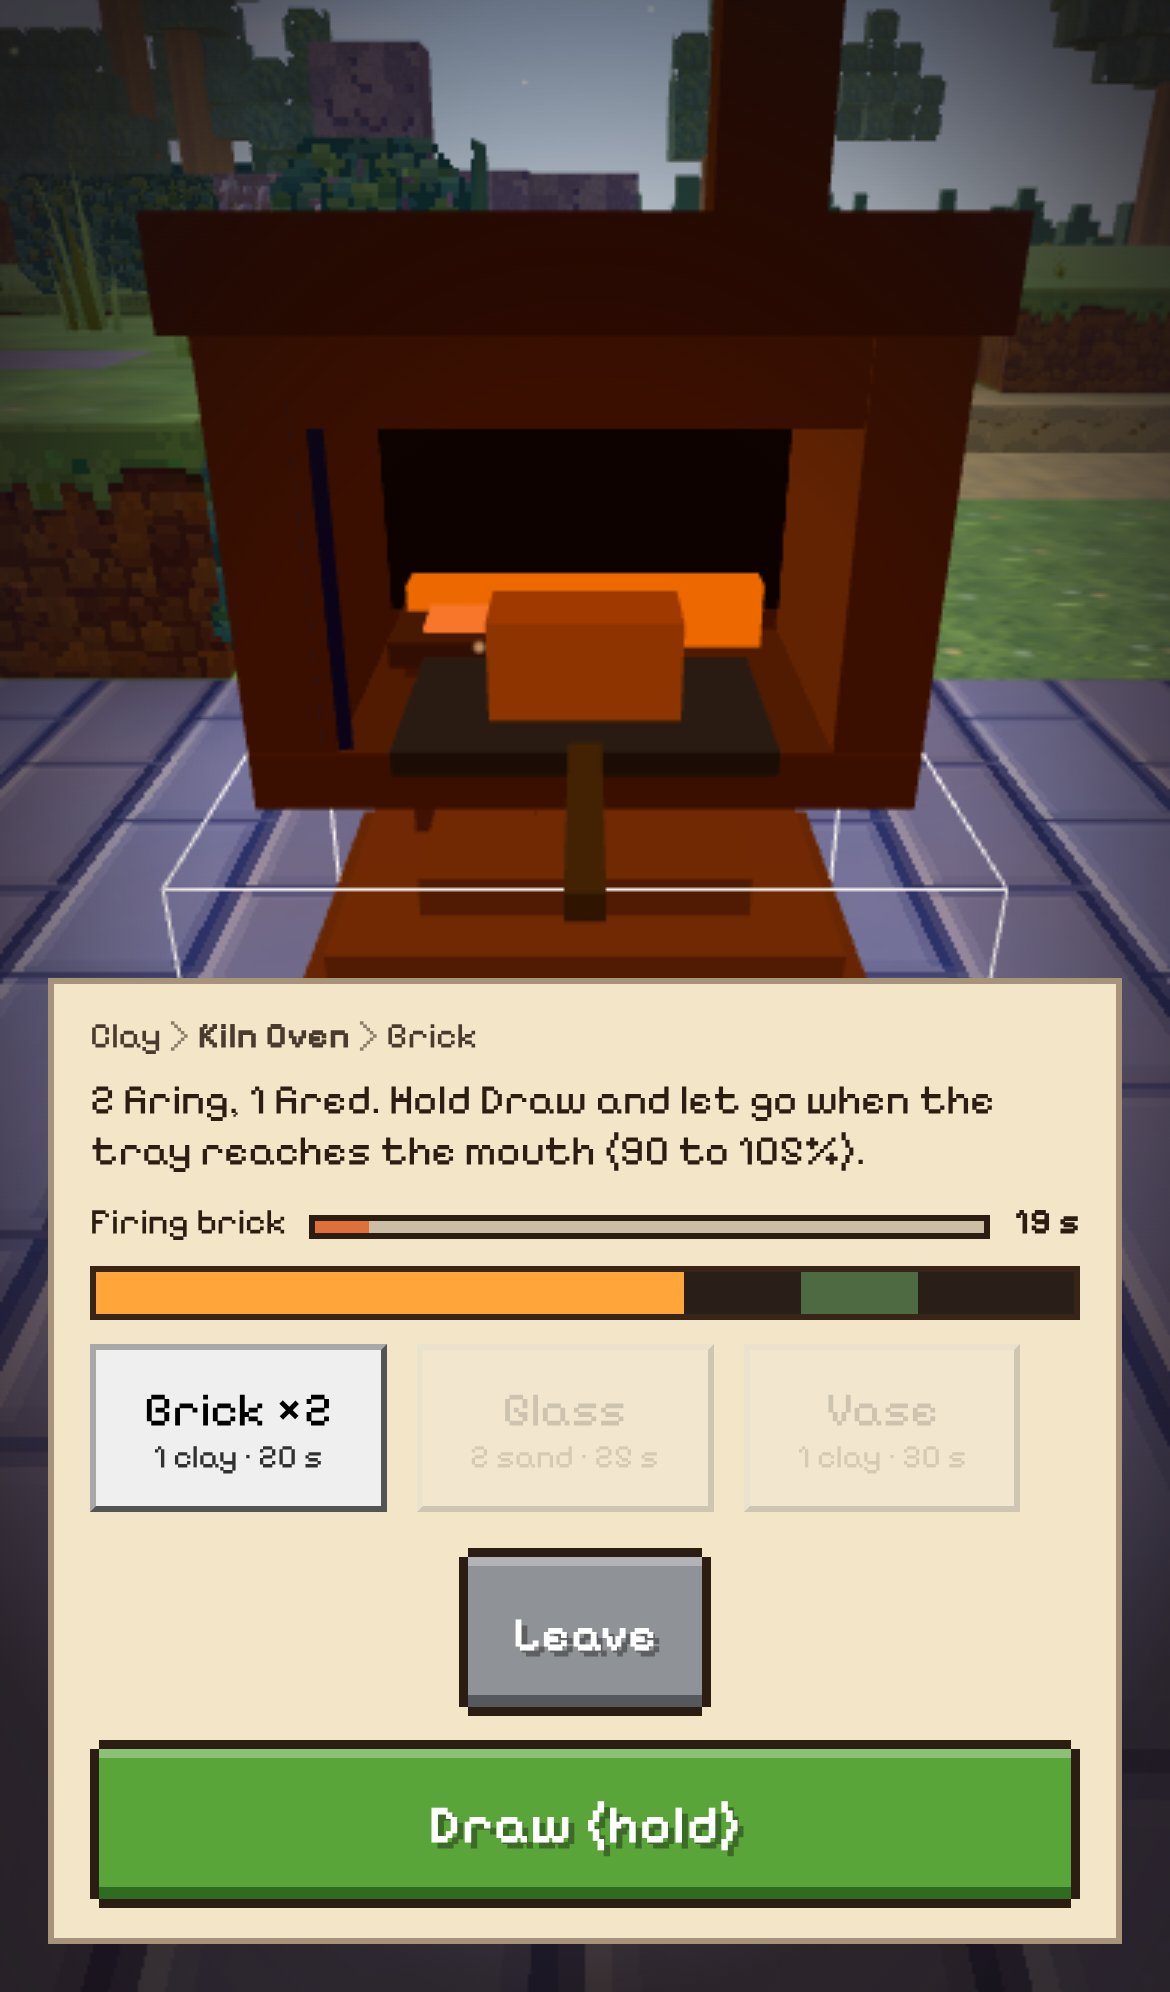
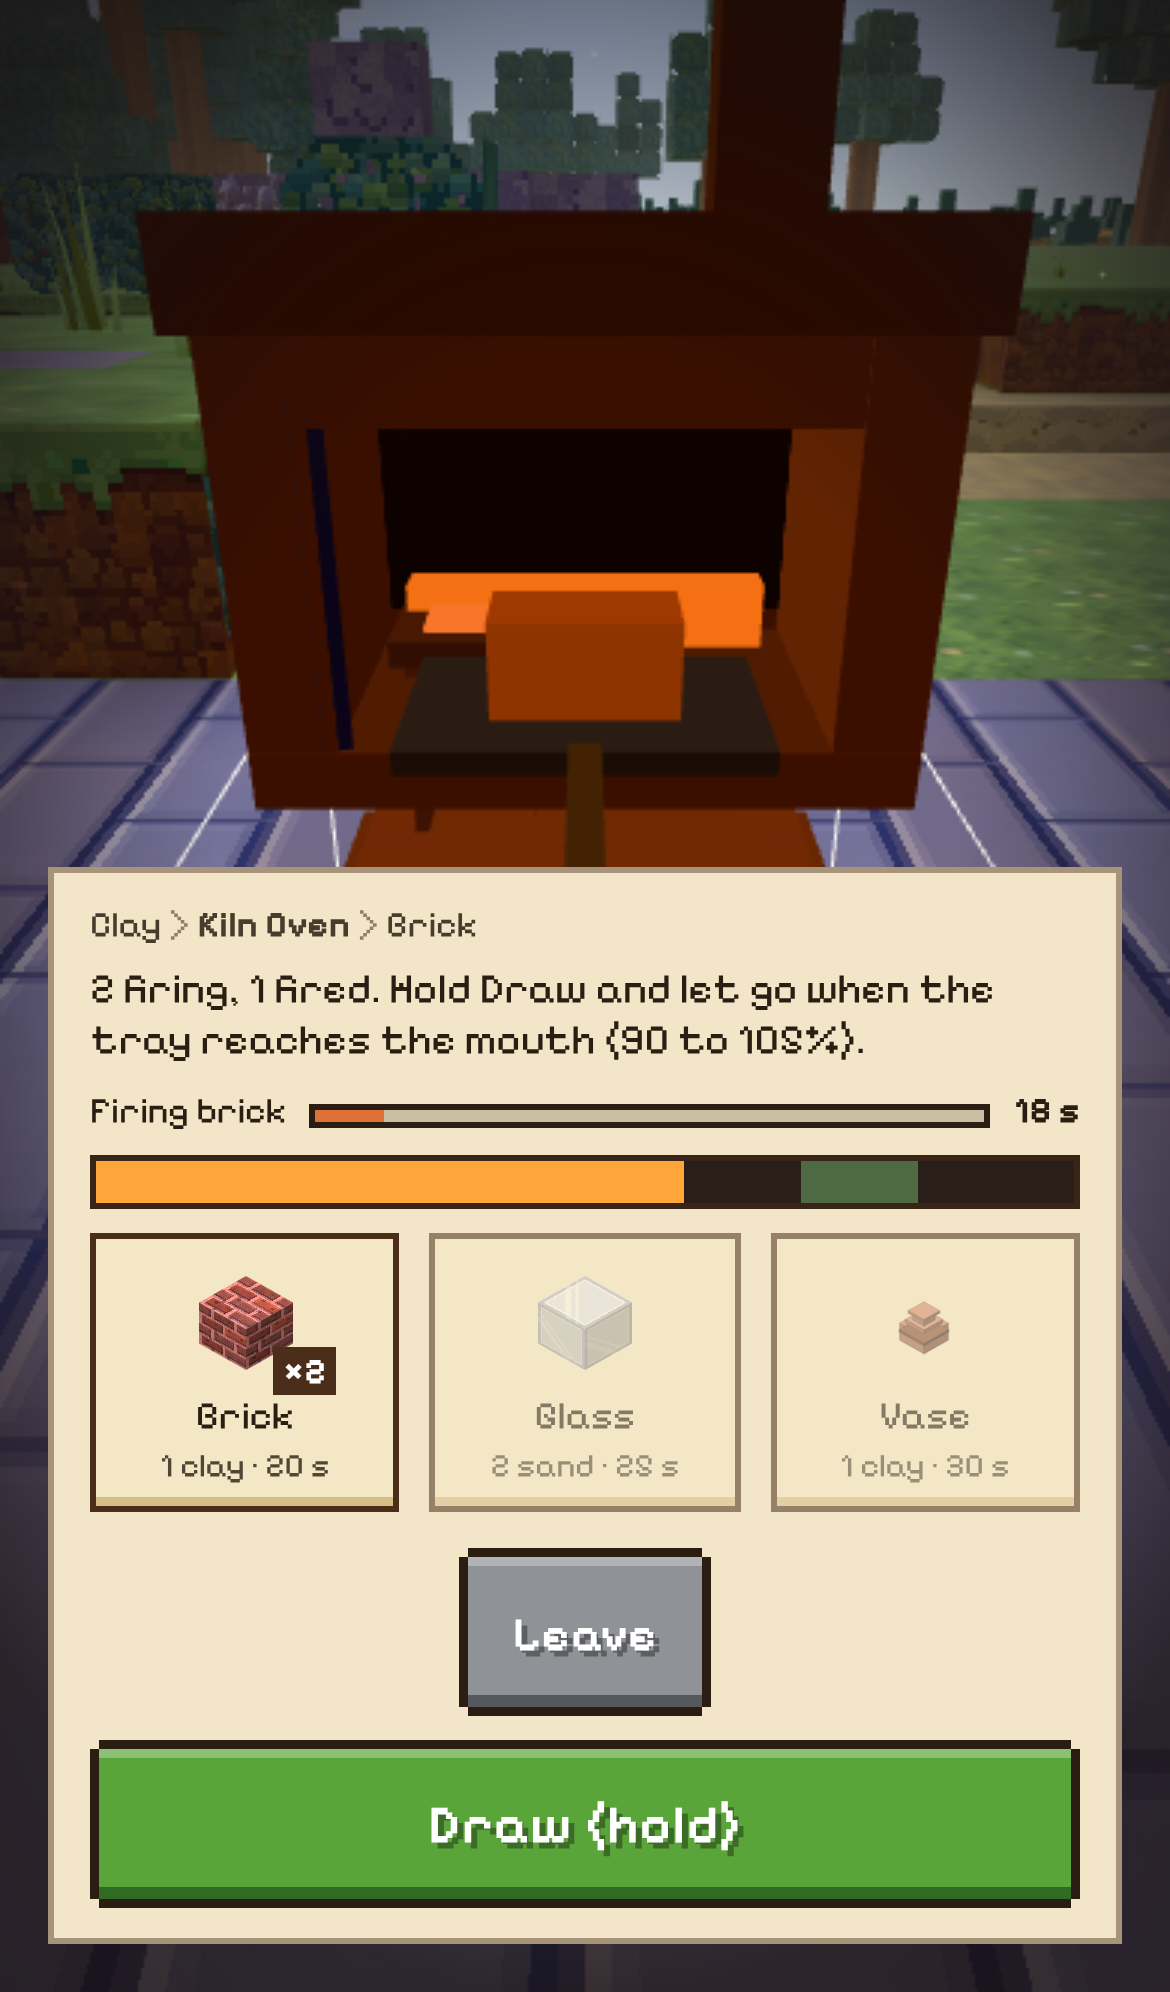
Stations: item pictures on the choices, one Place on phones, no teal
Owner, 18 November. The wood mill, stone mill, benches, Carpenter's
Table and crucible list their choices as tiles with the item's 3D
picture (the same itemIcon the bag uses), name, batch size and what it
takes, in the game's paper and wood; the picked one is green. Button
text colour is set, so iPhone Safari no longer draws it blue. On a
touch screen the table's parts go in with one Place, one after the
other; with a mouse each part keeps its button and key. The teal
accent left the next-part ring, the crucible's pick and the chain
line's station.

Claude-Session: https://claude.ai/code/session_01HgGVa7TuDaqakunHmHAQ6k

diff --git a/src/ui/CounterBar.js b/src/ui/CounterBar.js
@@ -4,6 +4,11 @@ import { RECIPES_BY_ID } from '../config/recipes.js';
 import { WORK_MIN, WORK_MAX } from '../duilt/BenchWork.js';
 import { escapeHtml } from './html.js';
 import { chainLineHtml } from './chainLine.js';
+import { pieceTile } from './pieceTile.js';
+
+/** A touch screen: parts go in with one Place (owner, 18 November). Same test as the rest of the game's touch controls. */
+const isTouch = () => (typeof document !== 'undefined' && document.body?.classList.contains('touch'))
+  || (typeof matchMedia === 'function' && matchMedia('(pointer: coarse)').matches);
 
 /**
  * CRAFT3D-1, CRAFT-9: the buttons over the Carpenter's Table's close-up
@@ -22,13 +27,14 @@ export class CounterBar {
    * @param onHold (on) => Saw is held or let go
    * @param onPart (i) => part `i` was tapped
    */
-  constructor({ root, view, counters, age = () => Infinity, onLeave = () => {}, onHold = () => {}, onPart = () => {} }) {
+  constructor({ root, view, counters, age = () => Infinity, onLeave = () => {}, onHold = () => {}, onPart = () => {}, onPlaceAll = () => {} }) {
     this.view = view;
     this.counters = counters;
     this.age = age;
     this.onLeave = onLeave;
     this.onHold = onHold;
     this.onPart = onPart;
+    this.onPlaceAll = onPlaceAll;
     this.el = document.createElement('div');
     this.el.className = 'counter-bar table-bar';
     this.el.hidden = true;
@@ -68,7 +74,7 @@ export class CounterBar {
       const last = key ? this.counters.lastMade(key) : null, again = last ? this.counters.ready(last) : null;
       const tiles = this.pieces().map((id) => {
         const can = this.counters.ready(id);
-        return `<button class="counter-piece${can.ok ? '' : ' cant'}" data-piece="${id}" title="${escapeHtml(can.reason ?? '')}">${escapeHtml(itemName(id))}</button>`;
+        return pieceTile({ id, attrs: `data-piece="${escapeHtml(id)}"`, cls: can.ok ? '' : 'cant', title: can.reason ?? '' });
       }).join('');
       const say = note || (last ? (again.ok ? `Make another ${itemName(last).toLowerCase()}, or pick a piece.` : again.reason) : 'Pick a piece to make.');
       this.el.innerHTML = `<p class="counter-say">${escapeHtml(say)}</p><div class="counter-pieces">${tiles}</div>
@@ -82,15 +88,19 @@ export class CounterBar {
     const sawn = w.cut >= n, cut = this.counters.canCut(key), next = this.counters.next(key);
     const settled = !this.view.flying && !this.view.pendingTake;
     const say = note || (!sawn ? (cut.ok ? `Hold Saw and let go in the light band. One stroke cuts the ${itemName(w.item).toLowerCase()}'s ${n === 1 ? 'part' : `${n} parts`}.` : cut.reason)
-      : fitted < n ? (w.quick ? 'Tap a part: every part flies to its place.' : `Tap a part and it flies to its place, or drag it: ${fitted} of ${n} fitted.`)
+      : fitted < n ? (isTouch() ? `Tap Place and the parts go together, or drag one: ${fitted} of ${n} fitted.`
+        : w.quick ? 'Tap a part: every part flies to its place.' : `Tap a part and it flies to its place, or drag it: ${fitted} of ${n} fitted.`)
         : isPatterned(w.item) && !w.carved ? 'Carve the pattern with the chisel.'
           : settled ? 'Done. Make room in your bag and take it.' : 'Done.');
     const gauge = sawn ? '' : `<div class="pour-gauge" aria-label="How far the saw has gone"><i class="pour-window" style="left:${WORK_MIN * 80}%;width:${(WORK_MAX - WORK_MIN) * 80}%"></i><i class="pour-level" data-work-level style="width:0%"></i></div>`;
-    const chips = sawn && fitted < n ? `<div class="counter-pieces">${parts.map((p, i) =>
+    // On a phone the parts go in with one Place; with a mouse each part is its own button (and key).
+    const placing = sawn && fitted < n, TOUCH = isTouch();
+    const chips = placing && !TOUCH ? `<div class="counter-pieces">${parts.map((p, i) =>
       `<button class="counter-piece${i === next || (w.quick && !w.fitted[i]) ? ' next' : ''}" data-part="${i}" ${w.fitted[i] ? 'disabled' : ''}><kbd>${i + 1}</kbd> ${escapeHtml(partLabel(p))}</button>`).join('')}</div>` : '';
     this.el.innerHTML = `${chainLineHtml(w.item, 'counter')}<p class="counter-say">${escapeHtml(say)}</p>${gauge}${chips}
       <div class="counter-actions">
         ${sawn ? '' : `<button class="primary" data-saw ${cut.ok ? '' : 'disabled'}>Saw (hold)</button>`}
+        ${placing && TOUCH ? `<button class="primary" data-place-all ${this.view.flying ? 'disabled' : ''}>Place</button>` : ''}
         ${isPatterned(w.item) && fitted === n && !w.carved ? '<button class="primary" data-carve>Carve</button>' : ''}
         ${w.done && settled ? '<button class="primary" data-take>Take it</button>' : ''}
         ${!w.paid && w.cut === 0 ? '<button class="secondary" data-back>Back</button>' : ''}
@@ -104,6 +114,8 @@ export class CounterBar {
     if (b.dataset.piece) {
       const r = this.view.pick(b.dataset.piece);
       this.render(r.ok ? '' : r.reason);
+    } else if ('placeAll' in b.dataset) {
+      this.onPlaceAll?.();
     } else if (b.dataset.part) {
       this.onPart(Number(b.dataset.part));
     } else if ('again' in b.dataset) {

diff --git a/src/ui/styles.css b/src/ui/styles.css
@@ -2309,7 +2309,7 @@ button.busy { cursor: progress; opacity: 0.92; }
 /* CRAFT-9 part 7: the chain line, one small wrapping line above the bar's text. */
 .chain-line { margin: 0 0 4px; font-size: 12px; line-height: 1.3; opacity: 0.85; overflow-wrap: anywhere; }
 .chain-line .chain-station { font-weight: 700; }
-.chain-line .chain-station.here { text-decoration: underline; color: var(--accent, #8a3b12); }
+.chain-line .chain-station.here { text-decoration: underline; color: var(--px-grass-dark, #2f6b23); }
 .chain-line .chain-sep { opacity: 0.6; }
 .book-detail .chain-line { margin: 4px 0 0; }
 .counter-bar .counter-pieces { display: flex; gap: 6px; overflow-x: auto; padding-bottom: 6px; margin-bottom: 6px; }
@@ -2324,13 +2324,32 @@ button.busy { cursor: progress; opacity: 0.92; }
   .counter-bar .counter-piece { min-height: 48px; padding: 8px 10px; font-size: 14px; }
 }
 .counter-bar .counter-piece.cant { opacity: 0.55; }
+/* Owner, 18 November: the machines' choices show the item's 3D picture, in
+   the game's paper and wood (src/ui/pieceTile.js). The colour is set here
+   because iPhone Safari draws unstyled button text in system blue. */
+.counter-bar .counter-piece { color: var(--px-text, #2b1d12); background: var(--px-paper, #f4e7c5);
+  border: 2px solid var(--px-wood-dark, #4a2e19); box-shadow: inset 0 -3px 0 var(--px-paper-3, #d6bd85);
+  -webkit-tap-highlight-color: transparent; }
+.counter-bar .piece-tile { display: flex; flex-direction: column; align-items: center; justify-content: flex-start; gap: 2px;
+  width: 104px; min-height: 0; padding: 6px 4px 7px; white-space: normal; text-align: center; }
+.counter-bar .piece-pic { position: relative; width: 44px; height: 44px; display: grid; place-items: center; }
+.counter-bar .piece-pic svg { display: block; }
+.counter-bar .piece-pic b { position: absolute; right: -8px; bottom: -2px; padding: 0 3px; font-size: 12px; line-height: 16px;
+  color: #fff; background: var(--px-wood-dark, #4a2e19); }
+.counter-bar .piece-name { font-size: 13px; line-height: 1.15; }
+.counter-bar .piece-tile small { font-size: 11px; line-height: 1.2; opacity: 0.75; }
+.counter-bar .piece-tile[aria-pressed="true"] { background: #e3f0cf; border-color: var(--px-grass-dark, #2f6b23);
+  box-shadow: inset 0 -3px 0 var(--px-grass, #5aa53a), 0 0 0 2px var(--px-grass, #5aa53a); }
+@media (max-width: 600px) {
+  .counter-bar .piece-tile { width: calc((100% - 20px) / 3); min-height: 0; padding: 6px 2px 7px; font-size: 13px; }
+}
 /* CRAFT-9: every machine's action buttons sit bottom centre, 56 px tall, under the thumb. */
 .counter-bar .counter-actions { display: flex; gap: 8px; justify-content: center; flex-wrap: wrap; }
 .counter-bar button { min-height: 44px; }
 .counter-bar .counter-actions button { min-height: 56px; min-width: 84px; padding: 0 10px; font-size: 16px; touch-action: none; }
 /* The Carpenter's Table: the part to fit next is ringed; the key numbers show only with a keyboard. */
 .table-bar .counter-pieces { justify-content: safe center; }
-.table-bar .counter-piece.next { outline: 3px solid var(--accent, #c98a2b); outline-offset: -3px; }
+.table-bar .counter-piece.next { outline: 3px solid #f1c84b; outline-offset: -3px; border-color: var(--px-wood-dark, #4a2e19); }
 .table-bar .counter-piece[disabled] { opacity: 0.45; text-decoration: line-through; }
 .table-bar kbd { display: inline-block; min-width: 18px; margin-right: 4px; border: 1px solid currentColor; border-radius: 4px; font: inherit; font-size: 12px; text-align: center; opacity: 0.8; }
 @media (pointer: coarse) { .table-bar kbd { display: none; } }
@@ -2345,7 +2364,7 @@ button.busy { cursor: progress; opacity: 0.92; }
 .bench-group { margin: 8px 0 0; font-size: 13px; text-transform: uppercase; letter-spacing: 0.04em; }
 /* CRAFT3D-3: the crucible's bar shares the counter's look. */
 .crucible-bar .counter-piece small, .bench-bar .counter-piece small { display: block; font-size: 11px; opacity: 0.8; }
-.crucible-bar [aria-pressed="true"] { outline: 2px solid var(--accent, #c98a2b); }
+.crucible-bar [aria-pressed="true"] { outline: 3px solid #f1c84b; outline-offset: -3px; }
 .crucible-bar .pour-gauge, .bench-bar .pour-gauge, .table-bar .pour-gauge { position: relative; height: 18px; margin: 0 0 8px; border: 2px solid var(--panel-border, #4a3220); background: #2a1e18; }
 .crucible-bar .pour-window, .bench-bar .pour-window, .table-bar .pour-window { position: absolute; top: 0; bottom: 0; background: rgba(120, 200, 120, 0.45); }
 .crucible-bar .pour-level, .bench-bar .pour-level, .table-bar .pour-level { position: absolute; left: 0; top: 0; bottom: 0; background: #ffa53a; }

diff --git a/src/render/CounterMachine.js b/src/render/CounterMachine.js
@@ -1,4 +1,4 @@
-import { CounterView } from './CounterView.js';
+import { CounterView, FLY_SECONDS } from './CounterView.js';
 import { CounterBar } from '../ui/CounterBar.js';
 
 /** A press that moves less than this (in screen halves) is a tap, more is a drag. */
@@ -13,7 +13,7 @@ const TAP = 0.03;
 export class CounterMachine {
   constructor({ scene, camera, uiRoot, counters, bus, age, onDone, onLeave }) {
     this.view = new CounterView({ scene, camera, counters, bus, onDone: (e) => { onDone?.(e); this.bar.render(); } });
-    this.bar = new CounterBar({ root: uiRoot, view: this.view, counters, age, onLeave, onHold: (on) => this.hold(on), onPart: (i) => this.tap(i) });
+    this.bar = new CounterBar({ root: uiRoot, view: this.view, counters, age, onLeave, onHold: (on) => this.hold(on), onPart: (i) => this.tap(i), onPlaceAll: () => this.placeAll() });
     this.barEl = this.bar.el;
     this.held = -1;
   }
@@ -50,6 +50,24 @@ export class CounterMachine {
     const ok = this.view.tapFit(i);
     this.bar.render();
     return ok;
+  }
+
+  /**
+   * Phones: one Place puts every cut part in its place, one after the other
+   * (owner, 18 November: "we can have one button saying place that place all
+   * the items"). Each one flies as a tap would, a fly's length apart.
+   */
+  placeAll() {
+    clearTimeout(this.placing);
+    const step = () => {
+      const key = this.view.key, w = key ? this.view.counters.work(key) : null;
+      if (!w) return;
+      let i = this.view.counters.next(key);
+      if (i < 0) i = w.fitted.findIndex((f, k) => !f && k < w.cut);
+      if (i < 0 || !this.tap(i)) return;
+      this.placing = setTimeout(step, FLY_SECONDS * 1000 + 60);
+    };
+    step();
   }
 
   /** Desktop keys: Space holds Saw, 1 to 4 tap a part. True when the key was the table's. */

diff --git a/src/ui/pieceTile.js b/src/ui/pieceTile.js
@@ -1,0 +1,22 @@
+import { ITEMS_BY_ID, itemName } from '../config/items.js';
+import { itemIcon } from '../config/cubes.js';
+import { glyphSvg } from '../config/glyphs.js';
+import { escapeHtml } from './html.js';
+
+/**
+ * One thing a machine can make, as a tile: the item's 3D picture (the same
+ * one the bag and the recipe book use), its name, how many, and what it
+ * takes. Owner, 18 November: "I don't like the buttons that we have to
+ * select items. They should have the item 3d image we use everywhere."
+ *
+ * `attrs` is the button's data attributes, already escaped by the caller.
+ */
+export function pieceTile({ id, count = 1, sub = '', attrs = '', cls = '', pressed = false, disabled = false, title = '' }) {
+  const spec = ITEMS_BY_ID.get(id);
+  const pic = itemIcon(spec, { size: 40 }) ?? glyphSvg(spec?.glyph, { size: 30, color: spec?.color ?? 0x888888 });
+  return `<button class="counter-piece piece-tile${cls ? ` ${cls}` : ''}" ${attrs}${pressed ? ' aria-pressed="true"' : ''}${disabled ? ' disabled' : ''}${title ? ` title="${escapeHtml(title)}"` : ''}>`
+    + `<span class="piece-pic" aria-hidden="true">${pic ?? ''}${count > 1 ? `<b>×${count}</b>` : ''}</span>`
+    + `<span class="piece-name">${escapeHtml(itemName(id))}</span>`
+    + (sub ? `<small>${escapeHtml(sub)}</small>` : '')
+    + '</button>';
+}

diff --git a/src/ui/CrucibleBar.js b/src/ui/CrucibleBar.js
@@ -2,6 +2,7 @@ import { RECIPES } from '../config/recipes.js';
 import { itemName } from '../config/items.js';
 import { escapeHtml } from './html.js';
 import { chainLineHtml } from './chainLine.js';
+import { pieceTile } from './pieceTile.js';
 import { meltSeconds, mouldFor, MAX_BATCHES, POUR_MIN, POUR_MAX } from '../duilt/Crucible.js';
 
 /**
@@ -94,7 +95,8 @@ export class CrucibleBar {
     const tiles = this.recipes().map((r) => {
       const busy = s && s.recipeId !== r.id;
       const takes = Object.entries(r.inputs).map(([id, n]) => `${n} ${itemName(id).toLowerCase()}`).join(' + ');
-      return `<button class="counter-piece${busy ? ' cant' : ''}" data-load="${r.id}" ${busy ? 'disabled' : ''}>${escapeHtml(itemName(r.output.id))}${r.output.count > 1 ? ` ×${r.output.count}` : ''}<small> ${escapeHtml(takes)} · ${meltSeconds(r)} s</small></button>`;
+      return pieceTile({ id: r.output.id, count: r.output.count, sub: `${takes} · ${meltSeconds(r)} s`, attrs: `data-load="${escapeHtml(r.id)}"`,
+        cls: busy ? 'cant' : '', disabled: busy });
     }).join('');
     const w = this.words, poured = recipe && mouldFor(recipe), moulds = poured && poured !== 'tray';
     const state = !s ? w.load

diff --git a/src/ui/BenchBar.js b/src/ui/BenchBar.js
@@ -1,6 +1,7 @@
 import { itemName } from '../config/items.js';
 import { escapeHtml } from './html.js';
 import { chainLineHtml } from './chainLine.js';
+import { pieceTile } from './pieceTile.js';
 import { WORK_MIN, WORK_MAX } from '../duilt/BenchWork.js';
 
 /**
@@ -40,7 +41,8 @@ export class BenchBar {
     const chosen = recipes.find((r) => r.id === picked);
     const tiles = recipes.map((r) => {
       const takes = Object.entries(r.inputs).map(([id, n]) => `${n} ${itemName(id).toLowerCase()}`).join(' + ');
-      return `<button class="counter-piece${r.ok ? '' : ' cant'}" data-pick="${escapeHtml(r.id)}" ${r.id === picked ? 'aria-pressed="true"' : ''} title="${escapeHtml(r.reason ?? '')}">${escapeHtml(itemName(r.output.id))}${r.output.count > 1 ? ` ×${r.output.count}` : ''}<small> ${escapeHtml(takes)}</small></button>`;
+      return pieceTile({ id: r.output.id, count: r.output.count, sub: takes, attrs: `data-pick="${escapeHtml(r.id)}"`,
+        cls: r.ok ? '' : 'cant', pressed: r.id === picked, title: r.reason ?? '' });
     }).join('');
     const line = say || (!recipes.length ? 'Nothing is made here at this age.'
       : !chosen ? 'Pick what to make.'

diff --git a/docs/TASKS.md b/docs/TASKS.md
@@ -115,7 +115,8 @@ that an agent's later checkout has passed them. Re-fetch/recheck before work.
 | First: sustained performance | TECH-8; playtests under TECH-17 and TECH-9 | #241 records the 30-minute baseline with failed persistence; #242's 11-minute hardware follow-up confirms two actual autosaves and restore with 4–15 ms game-thread save work. Repeat a full 30 minutes on the new pipeline and profile physical iPhone hardware. Remaining render/mesh stalls prevent an overall performance sign-off. |
 | Follow-up implementation | TECH-7 | Finish lazy loading war/Sky modules; map/story already load lazily. Check the download/bundle change and exercise late-game routes, saves and cancelled loads. |
 | Follow-up maintenance | TECH-10 | Extract one Game.js subsystem per PR with existing behavior preserved. Coordinate files with other agents; a refactor alone is not an FPS improvement. |
-| Discussed crafting follow-up | CRAFT-8 | done: the Counter's 3D sawing and dragging (CRAFT3D-1) and the bench close-ups with a timed hold (CRAFT3D-2 to 7) are the chosen interaction |
+| Discussed crafting follow-up | CRAFT-10 | Owner, 18 November: machine choices show the item's 3D picture (tiles in the game's paper and wood, picked one in green); on a phone the Carpenter's Table puts every part in with one Place; the teal accent (#299e8a) is gone from these screens. Screens: `docs/screens/station-tiles/`. | Claude | done in this PR |
+| CRAFT-8 | done: the Counter's 3D sawing and dragging (CRAFT3D-1) and the bench close-ups with a timed hold (CRAFT3D-2 to 7) are the chosen interaction |
 | Partial: model-backed Battle | OLD-3; ASK-3 | Local LM Studio strategies work. Finish a separately configured authenticated hosted/mobile connection only after the owner supplies/chooses the endpoint arrangement; see `docs/local-ai.md`. |
 | Partial: multiplayer Battle | OLD-4 | Direct/LAN building and positions work. Remaining scope is combat/game-state synchronization and internet connectivity/relay. Do not present current co-op as complete Battle multiplayer. |
 | Blocked on database approval | TECH-1, TECH-5, TECH-14; ASK-5 | Review the prepared atomic-save/server-enforcement rollout and scaling work. Migration 0006 is not applied; atomic saves default off. Do not run migrations or activate production features without the owner's explicit approval. |
